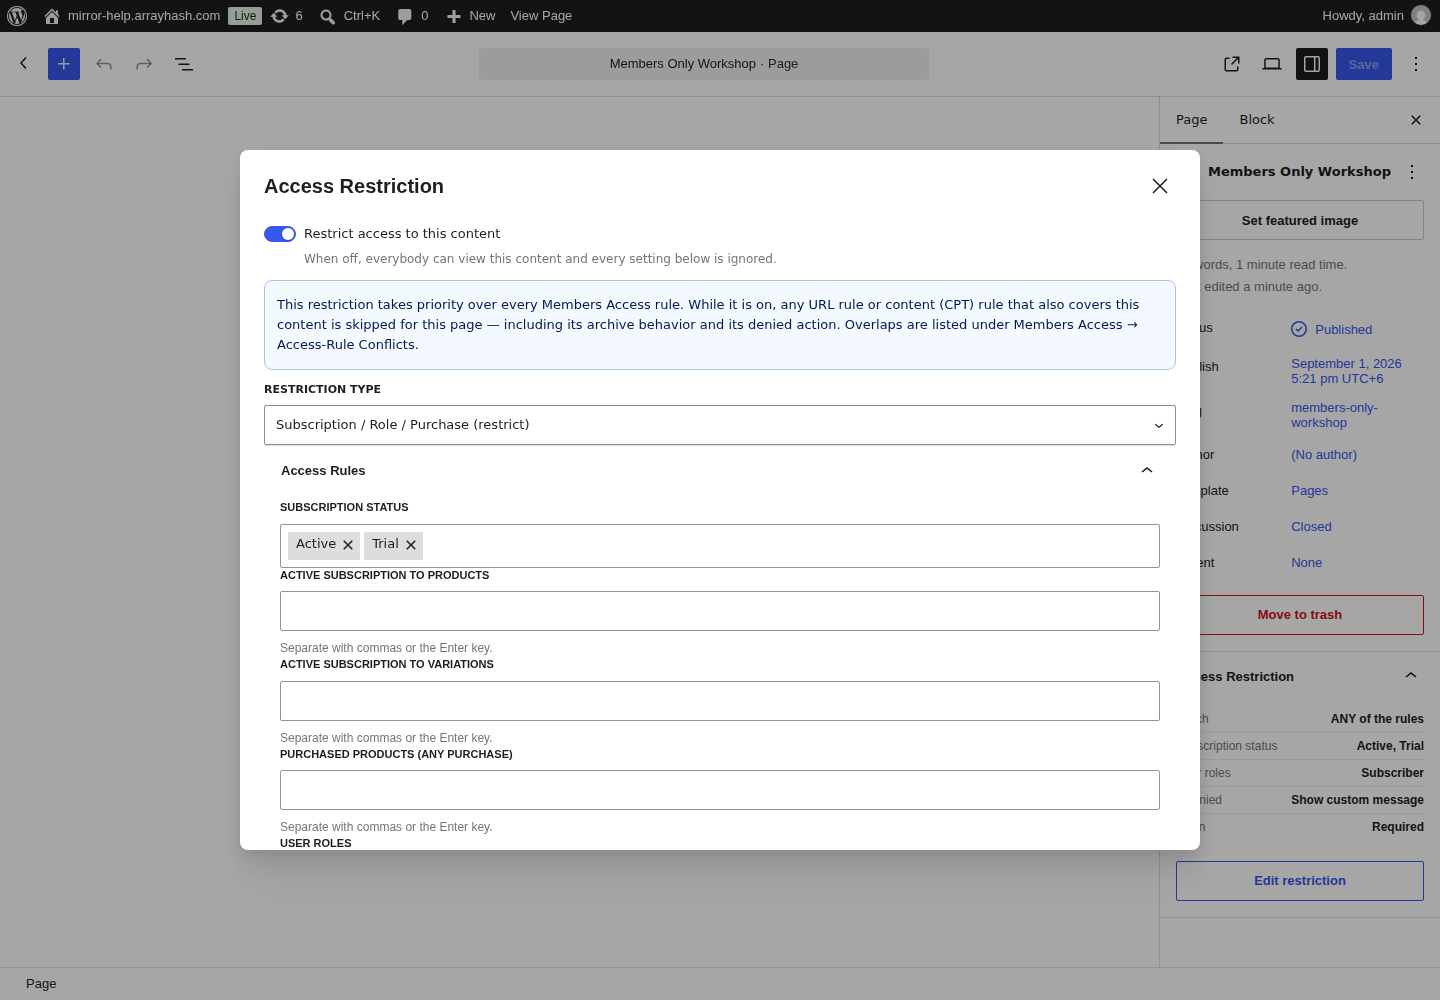
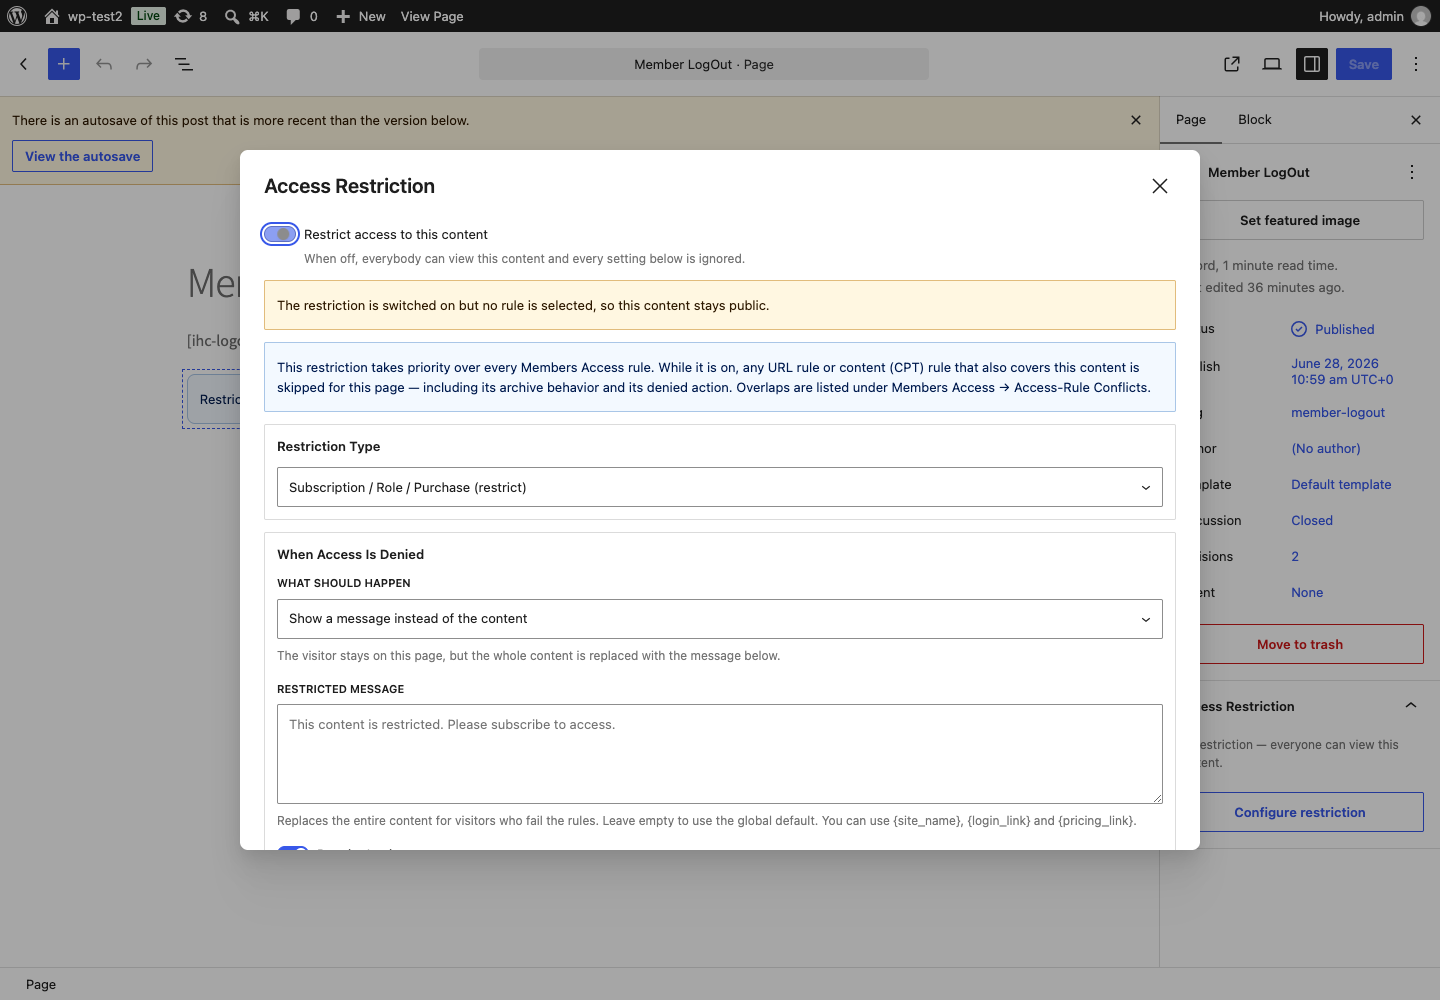
//

diff --git a/kanban/tasks/117-member-access-per-post-access-restriction-md-modal.md b/kanban/tasks/117-member-access-per-post-access-restriction-md-modal.md
@@ -1,0 +1,29 @@
+---
+id: 117
+title: member-access - per-post-access-restriction.md modal reshoot
+status: done
+priority: medium
+created: 2026-09-02T16:36:31.95613+06:00
+updated: 2026-09-02T16:48:13.76574+06:00
+started: 2026-09-02T16:48:13.765739+06:00
+completed: 2026-09-02T16:48:13.765739+06:00
+tags:
+    - screenshots
+    - refresh
+class: standard
+---
+
+Refresh every documentation screenshot of the Access Restriction configuration modal after the modal sections became permanent, non-collapsible sections and When Access Is Denied moved directly after Restriction Type. Source markdown: markdowns/member-access/per-post-access-restriction.md. Doc-fix permission: yes.
+
+Screenshot refresh completed on 2026-09-02.
+
+- 02-modal-top-original.png — Steps / Configuration; Gutenberg editor; modal top with enable switch, notices, Restriction Type, and When Access Is Denied. Markers: None — clean replacement requested.
+- 03-modal-access-rules-original.png — Access Rules Reference; Gutenberg editor; populated subscription statuses and user role in the permanent Access Rules section. Markers: None — clean replacement requested.
+- 04-modal-denied-message-original.png — When Access Is Denied / Show a Message; Gutenberg editor; populated restricted message and shared toggles. Markers: None — clean replacement requested.
+- 05-modal-plan-feature-original.png — Plan Feature; Gutenberg editor; populated numeric Team Members feature rule. Markers: None — clean replacement requested.
+- 06-modal-redirect-page-picker-original.png — Redirect / page on this site; Gutenberg editor; live page-search results. Markers: None — clean replacement requested.
+- 07-modal-redirect-custom-url-original.png — Redirect / custom URL; Gutenberg editor; populated full URL. Markers: None — clean replacement requested.
+- 08-modal-visibility-mode-original.png — Login State visibility; Gutenberg editor; permanent section ordering and Logged-out users selection. Markers: None — clean replacement requested.
+- 10-classic-modal-empty-warning-original.png — Edge Cases; classic product editor; enabled restriction with no rule selected. Markers: None — clean replacement requested.
+
+Documentation fixes approved by the user: reordered configuration steps to match the modal, documented the permanent sections, refreshed image descriptions, and updated the guide date. All replacements verified at 1440 × 1000. The user-manual build completed successfully (119 pages).

diff --git a/markdowns/member-access/per-post-access-restriction.md b/markdowns/member-access/per-post-access-restriction.md
@@ -1,7 +1,7 @@
 # Info
 - Module: Per-Post Access Restriction
 - Availability: Free (Plan Feature conditions require Pro)
-- Last updated: 2026-09-01
+- Last updated: 2026-09-02
 
 # Per-Post Access Restriction
 
@@ -79,13 +79,15 @@ A per-post restriction is evaluated **before** every Members Access rule. See [P
 3. Click **Configure restriction** — or **Edit restriction** if one already exists.
 4. Turn on **Restrict access to this content**.
 5. Choose the **Restriction Type**.
-6. Configure the access rules.
-7. Choose what happens **When Access Is Denied**.
+6. Choose what happens **When Access Is Denied**.
+7. Configure the **Access Rules** or **Visibility** section shown for the selected restriction type.
 8. Click **Apply**.
 9. Save or update the post.
 10. Test the published page as a logged-out visitor, a non-qualifying customer, and a qualifying member.
 
-![Configuration modal showing the enable toggle, the priority notice, and the Restriction Type selector](per-post-access-restriction.ASSETS/02-modal-top-original.png)
+The modal keeps each configuration area in its own permanent section, with **When Access Is Denied** immediately after **Restriction Type**.
+
+![Configuration modal showing the enable toggle, notices, and permanent Restriction Type and When Access Is Denied sections](per-post-access-restriction.ASSETS/02-modal-top-original.png)
 
 ## Restriction Types
 
@@ -129,7 +131,7 @@ Leave a field empty to skip that rule entirely. Only the fields you fill in are 
 
 ### Plan Feature *(Pro)*
 
-![Plan Feature panel with a feature selected and the How To Check It selector](per-post-access-restriction.ASSETS/05-modal-plan-feature-original.png)
+![Plan Feature section with a feature selected, a combined-amount check, and the required amount](per-post-access-restriction.ASSETS/05-modal-plan-feature-original.png)
 
 Feature gating checks entitlements defined with Feature Manager on your subscription products (**Product -> Features**). Use it when content should unlock because of what a plan *includes*, not because of which product was bought.
 

diff --git a/kanban/tasks/118-cross-site-september-2026-release-announcement.md b/kanban/tasks/118-cross-site-september-2026-release-announcement.md
@@ -1,0 +1,22 @@
+---
+id: 118
+title: Cross-site September 2026 release announcement
+status: in-progress
+priority: high
+created: 2026-09-02T16:46:22.088773+06:00
+updated: 2026-09-02T16:49:21.608287+06:00
+tags:
+    - release-announcement
+    - web-content
+    - user-manual
+    - user-portal
+due: "2026-09-05"
+claimed_by: busily-lacinia
+claimed_at: 2026-09-02T16:49:21.608287+06:00
+class: fixed-date
+---
+
+Add a delayed release announcement popup to web-content, user-manual, and user-portal. Add top notices on every user-manual page and the user-portal dashboard with a Show details action. Popup appears after 7 seconds, can be reopened explicitly, and close suppression lasts 1 hour. Release date: 5 September 2026.
+
+[[2026-09-02]] Wed 16:49
+Mapped all three apps. The marketing site and portal are Next.js; the manual is a static generator. Reusing the marketing site's accessible Dialog, adding an accessible portal announcement component, and wiring the manual template/runtime globally. Unrelated task #117 files remain untouched.
